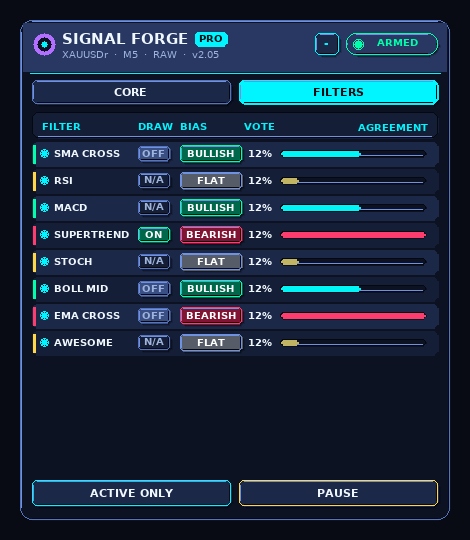
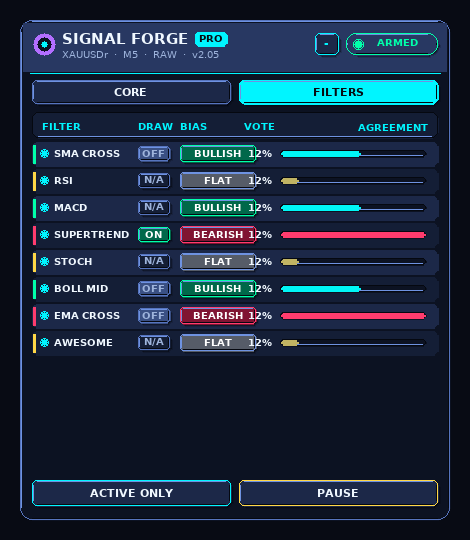
v2.15: the tracker reported a profit on a losing account
A demo funded with 200.00 sitting at 157.79 - down 42.21 - displayed
"+11.03 USD" with a rising equity curve.

Cause: every statistic was filtered by

    OrderSymbol() != Symbol() || OrderMagicNumber() != MagicNumber

which is right for judging this strategy and wrong for reporting the account.
Trades from other magics, manual trades and other EAs were invisible, so
53.24 USD of losses were never in the series being plotted.

The start balance hid it. It was back-derived from the same filtered total:

    start = AccountBalance() - gStatNet = 157.79 - 11.03 = 146.76
    real deposit                                         = 200.00

so the EA measured its gain against a balance it had invented from its own
partial data. Every number agreed with every other number and all of them
were wrong. A tracker that hides losses is worse than no tracker.

Fix: an account-wide pass over the full history reads OP_BALANCE funding
records and every closed trade regardless of magic or symbol, giving the true
opening balance. The headline card now reads ACCOUNT P/L with START and BAL
printed beside it so the arithmetic is checkable; the EA's own filtered figure
is still shown but explicitly labelled THIS EA; and the equity curve and max
drawdown plot the real account including deposits.

Also:
  - BALANCE / EQUITY / FLOATING P/L / DAY P/L translated. DrawChip translates
    its own label, so all four chips are covered at the chokepoint.
[…]

Changed region(s): [[0.3872, 0.2667, 0.566, 0.6519]]

diff --git a/docs/verify_account_math.py b/docs/verify_account_math.py
@@ -1,0 +1,120 @@
+#!/usr/bin/env python3
+"""Verify the tracker reports the REAL account, not just this EA's slice.
+
+The reported bug: a demo funded with 200.00 showing a balance of 157.79 - a
+loss of 42.21 - displayed "+11.03 USD" with a RISING equity curve. The stats
+were filtered by `OrderMagicNumber() == MagicNumber`, so every trade that was
+not this EA's was invisible: the money that was lost simply was not in the
+series being plotted.
+
+This checks the source so the filtered figure can never again be presented as
+the account result.
+"""
+import re, sys, os
+
+HERE = os.path.dirname(os.path.abspath(__file__))
+SRC = open(os.path.join(HERE, "..", "Signal Forge PRO XAUUSD M5 EA.mq4"),
+           encoding="utf-8").read()
+fails = []
+
+def check(label, ok, detail=""):
+    print(f"   {label:54s} {'OK' if ok else 'FAIL'}{(' - ' + detail) if detail and not ok else ''}")
+    if not ok:
+        fails.append(label)
+
+print("1. the account-wide pass exists")
+check("gAcctStart / gAcctNetAll / gAcctDeposits declared",
+      all(re.search(r'^double\s+%s' % g, SRC, re.M) for g in
+          ("gAcctDeposits", "gAcctNetAll", "gAcctStart")))
+check("OP_BALANCE (deposits/withdrawals) is read",
+      "OP_BALANCE" in SRC)
+check("the account pass is NOT filtered by magic",
+      re.search(r'gAcctNetAll \+= OrderProfit\(\) \+ OrderSwap\(\) \+ OrderCommission\(\);',
+                SRC) is not None)
+
+# the account loop must not carry the magic/symbol filter.
+# Scope the match to the FOR BODY only - a greedy match runs past the loop
+# into the magic-filtered EA pass that legitimately follows it.
+m = re.search(r'gAcctDeposits = 0;.*?for\(int a = 0.*?\n     \}', SRC, re.S)
+check("account loop has no MagicNumber filter",
+      m is not None and "OrderMagicNumber() != MagicNumber" not in m.group(0))
+check("account loop has no Symbol filter",
+      m is not None and "OrderSymbol() != Symbol()" not in m.group(0))
+
+print("\n2. the equity curve plots the real account")
+eq = re.search(r'double run = gAcctStart.*?\n     \}', SRC, re.S)
+check("curve starts from gAcctStart", eq is not None)
+check("curve is NOT magic-filtered",
+      eq is not None and "OrderMagicNumber() != MagicNumber" not in eq.group(0))
+check("curve includes funding entries",
+      eq is not None and "OP_BALANCE" in eq.group(0))
+check("max drawdown derives from the same series",
+      eq is not None and "gStatMaxDD" in eq.group(0))
+
+print("\n3. the headline card reports the account")
+check("ACCOUNT P/L = balance - true start",
+      re.search(r'double acctPL\s*=\s*AccountBalance\(\) - gAcctStart;', SRC) is not None)
+check("card colour follows the ACCOUNT result, not the EA result",
+      re.search(r'bool\s+acctUp\s*=\s*\(acctPL >= 0\);', SRC) is not None
+      and re.search(r'RaisedPlate\(pad, y, innerW, flH, SC\(8\),\s*\n\s*acctUp \?', SRC) is not None)
+check("the card still shows START and BAL so it can be checked",
+      'T("START")' in SRC and 'T("BAL")' in SRC)
+check("the EA's own figure is labelled as such",
+      'T("THIS EA")' in SRC)
+check("total GAIN% measured against the real start",
+      re.search(r'double gainBase = \(gAcctStart > 0\) \? gAcctStart', SRC) is not None)
+
+print("\n4. arithmetic on the reported numbers")
+# reproduce the user's account from the screenshot
+start, bal, ea_net = 200.00, 157.79, 11.03
+acct_pl = bal - start
+print(f"   funded {start:.2f}, balance {bal:.2f}, this EA {ea_net:+.2f}")
+print(f"   -> ACCOUNT P/L {acct_pl:+.2f}   (was displayed as {ea_net:+.2f})")
+check("account result is negative for the reported figures", acct_pl < 0)
+check("the two figures genuinely differ", abs(acct_pl - ea_net) > 1.0,
+      f"{abs(acct_pl - ea_net):.2f}")
+
+print("\n5. translated labels the user listed")
+for key in ("BALANCE", "EQUITY", "FLOATING P/L", "DAY P/L",
+            "ACCOUNT P/L", "START", "THIS EA"):
+    check(f'"{key}" has a translation',
+          re.search(r'if\(k == "%s"\)' % re.escape(key), SRC) is not None)
+check("DrawChip translates its own label (covers all 4 chips)",
+      re.search(r'Text\(x \+ SC\(12\), y \+ SC\(6\),\s*T\(label\)', SRC) is not None)
+
+print("\n6. FLAT wording and centring")
+check('FLAT is "sideways market", not "no trade"',
+      re.search(r'if\(k == "FLAT"\)\s*return "((?:\\x[0-9A-Fa-f]{4})+)";', SRC) is not None
+      and ''.join(chr(int(h, 16)) for h in re.findall(
+          r'\\x([0-9A-Fa-f]{4})',
+          re.search(r'if\(k == "FLAT"\)\s*return "((?:\\x[0-9A-Fa-f]{4})+)";',
+                    SRC).group(1))) == "\u0633\u0648\u0642 \u0639\u0631\u0636\u064a")
+check("TextBoxCenter exists (measured centring on both axes)",
+      re.search(r'void TextBoxCenter\(', SRC) is not None)
+for what in ("PRO", "bias", "state pill"):
+    pass
+check("PRO badge uses measured centring",
+      re.search(r'TextBoxCenter\(badgeX, hy \+ SC\(2\), badgeW, badgeH, "PRO"', SRC) is not None)
+check("state pill uses measured centring",
+      re.search(r'TextBoxCenter\(pillX \+ SC\(18\)', SRC) is not None)
+check("BIAS card uses measured centring",
+      re.search(r'TextBoxCenter\(bX, bY, bW, bH, bias', SRC) is not None)
+check("BIAS card widened for the longer Arabic word",
+      re.search(r'int bW = SC\(76\)', SRC) is not None)
+
+# the widened card must not collide with the VOTE column
+pad, innerW = 12, 430 - 24
+bias_end = pad + 148 + 76
+vote_x   = pad + 226
+check(f"BIAS card ends {bias_end} < VOTE column {vote_x}", bias_end <= vote_x)
+bar_end = pad + 262 + innerW - 274
+check(f"agreement bar ends {bar_end} inside panel {pad + innerW}",
+      bar_end <= pad + innerW)
+
+print()
+if fails:
+    print("FAILURES:")
+    for f in fails:
+        print("  -", f)
+    sys.exit(1)
+print("ALL ACCOUNT-MATH AND LAYOUT CHECKS PASS")

diff --git a/README.md b/README.md
@@ -1,4 +1,4 @@
-# Signal Forge PRO — XAUUSD M5 EA (v2.14)
+# Signal Forge PRO — XAUUSD M5 EA (v2.15)
 
 > **v2.05 — the ORIGINAL v1 trading strategy has been restored.**
 > The trading engine is now exactly the v1 engine. The entire v2 risk layer
@@ -1242,6 +1242,76 @@ one row above ~400 px of nothing. It now sizes to the visible rows:
 still uses `ArFix`) and the live switches. It also caught a real compile error:
 `T()` was called by the trade gate at line ~863 but defined at ~1517, and MQL4
 resolves top-down — now forward-declared.
+
+> Still no MQL4 compiler in this environment — static analysis, not a build.
+
+---
+
+## v2.15 — the tracker was reporting a profit on a losing account
+
+This was the serious one. A demo funded with **200.00** sitting at **157.79** —
+down **42.21** — displayed **“+11.03 USD”** with a **rising** equity curve.
+
+![account math fix](docs/account_math_fix.png)
+
+### Cause
+
+Every statistic was filtered by:
+
+```mql4
+if(OrderSymbol() != Symbol() || OrderMagicNumber() != MagicNumber) continue;
+```
+
+That filter is correct for judging *this strategy*, and wrong for reporting
+*the account*. Trades from other magic numbers, manual trades and other EAs
+were invisible, so **53.24 USD of losses were never in the series**.
+
+The start balance made it self-consistent and therefore invisible:
+
+```
+start = AccountBalance() - gStatNet = 157.79 - 11.03 = 146.76   // wrong
+real deposit                                          = 200.00
+```
+
+The EA measured its gain against a balance it had invented from its own
+filtered total, so every number agreed with every other number and all of them
+were wrong. **A tracker that hides losses is worse than no tracker.**
+
+### Fix
+
+An **account-wide pass** over the full history reads `OP_BALANCE` funding
+records *and* every closed trade regardless of magic or symbol:
+
+```
+gAcctStart = deposits found ? sum(OP_BALANCE)
+                            : AccountBalance() - net_of_ALL_trades
+```
+
+* The headline card now reads **ACCOUNT P/L**, with **START** and **BAL**
+  printed beside it so the arithmetic can be checked at a glance.
+* The EA's own filtered result is still shown, explicitly labelled **THIS EA** —
+  useful, but no longer masquerading as the account result.
+* **Equity curve and max drawdown** plot the real account, including deposits.
+
+| | before | after |
+|---|---|---|
+| headline | `+11.03 USD` (green) | `-42.21 USD` (red) |
+| curve | rising | the real account |
+| start | 146.76 (invented) | 200.00 (the deposit) |
+
+### Also in this build
+
+* **`BALANCE`, `EQUITY`, `FLOATING P/L`, `DAY P/L` translated.** `DrawChip`
+  now translates its own label, so every chip is covered at the chokepoint
+  rather than per call site.
+* **`FLAT` → `سوق عرضي`** (sideways market) instead of `بدون صفقة`.
+* **Measured centring.** `TextBoxCenter()` centres on the **measured glyph box
+  in both axes**. The `PRO` badge, the `ARMED` pill and the bias card were
+  placed with offsets hand-tuned for Segoe UI; the Arabic face has different
+  ascent/descent, so they sat high. Measuring fixes English and Arabic at once.
+* **Bias card widened 62 → 76 px.** `سوق عرضي` measures ~57 px at 7 pt and
+  Tahoma runs wider than the test font, so 62 px would have clipped. The VOTE
+  column and agreement bar shifted with it — verified for collisions.
 
 > Still no MQL4 compiler in this environment — static analysis, not a build.
 
